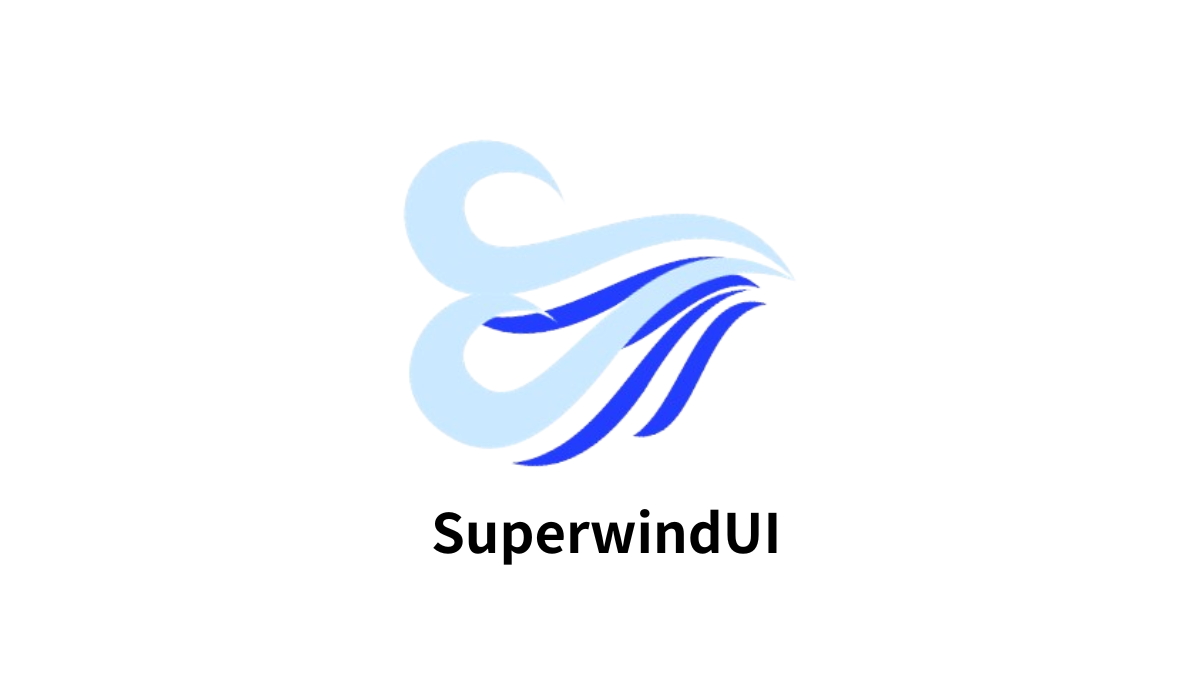
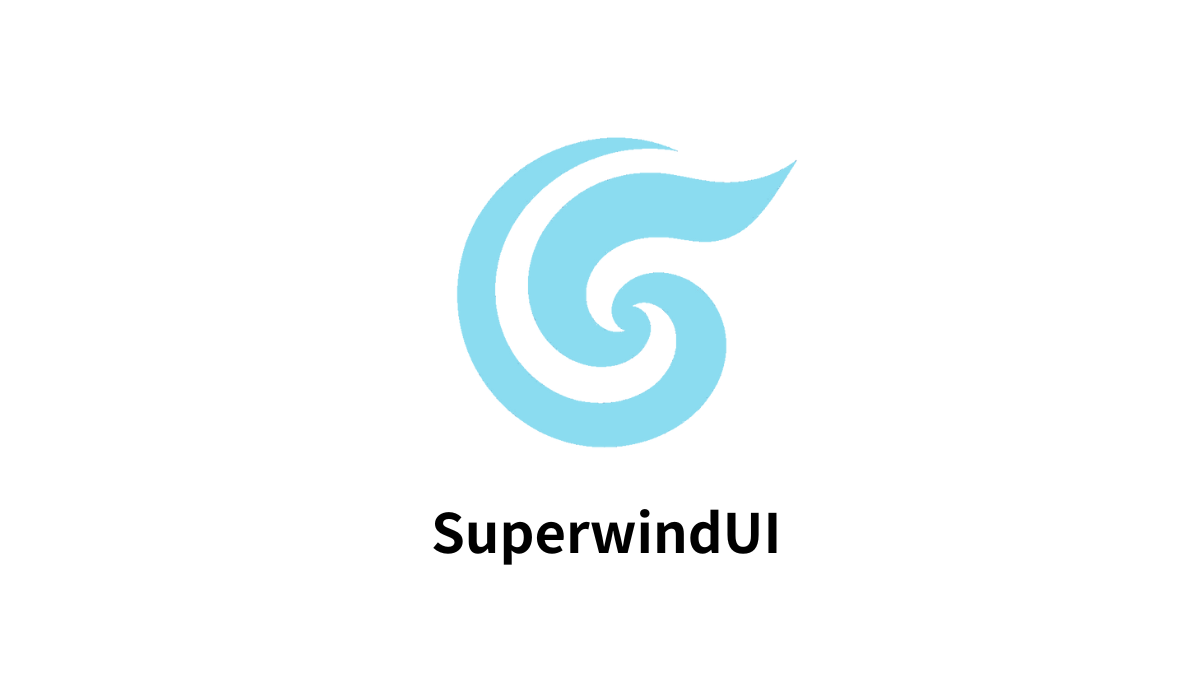
update: OGP画像更新と名前を変更しました。

Changed region(s): [[0.3392, 0.1867, 0.6783, 0.7156]]

diff --git a/app/page.tsx b/app/page.tsx
@@ -2,7 +2,7 @@ import Home from "./Home"
 import type { Metadata } from 'next'
 
 export const metadata: Metadata = {
-  title: 'SuoerwindUI',
+  title: 'SuperwindUI',
   description: 'モダンなUIを超速で開発できる次世代のコンポーネントライブラリを提供します。',
   openGraph: {
     title: 'SuperwindUI',
